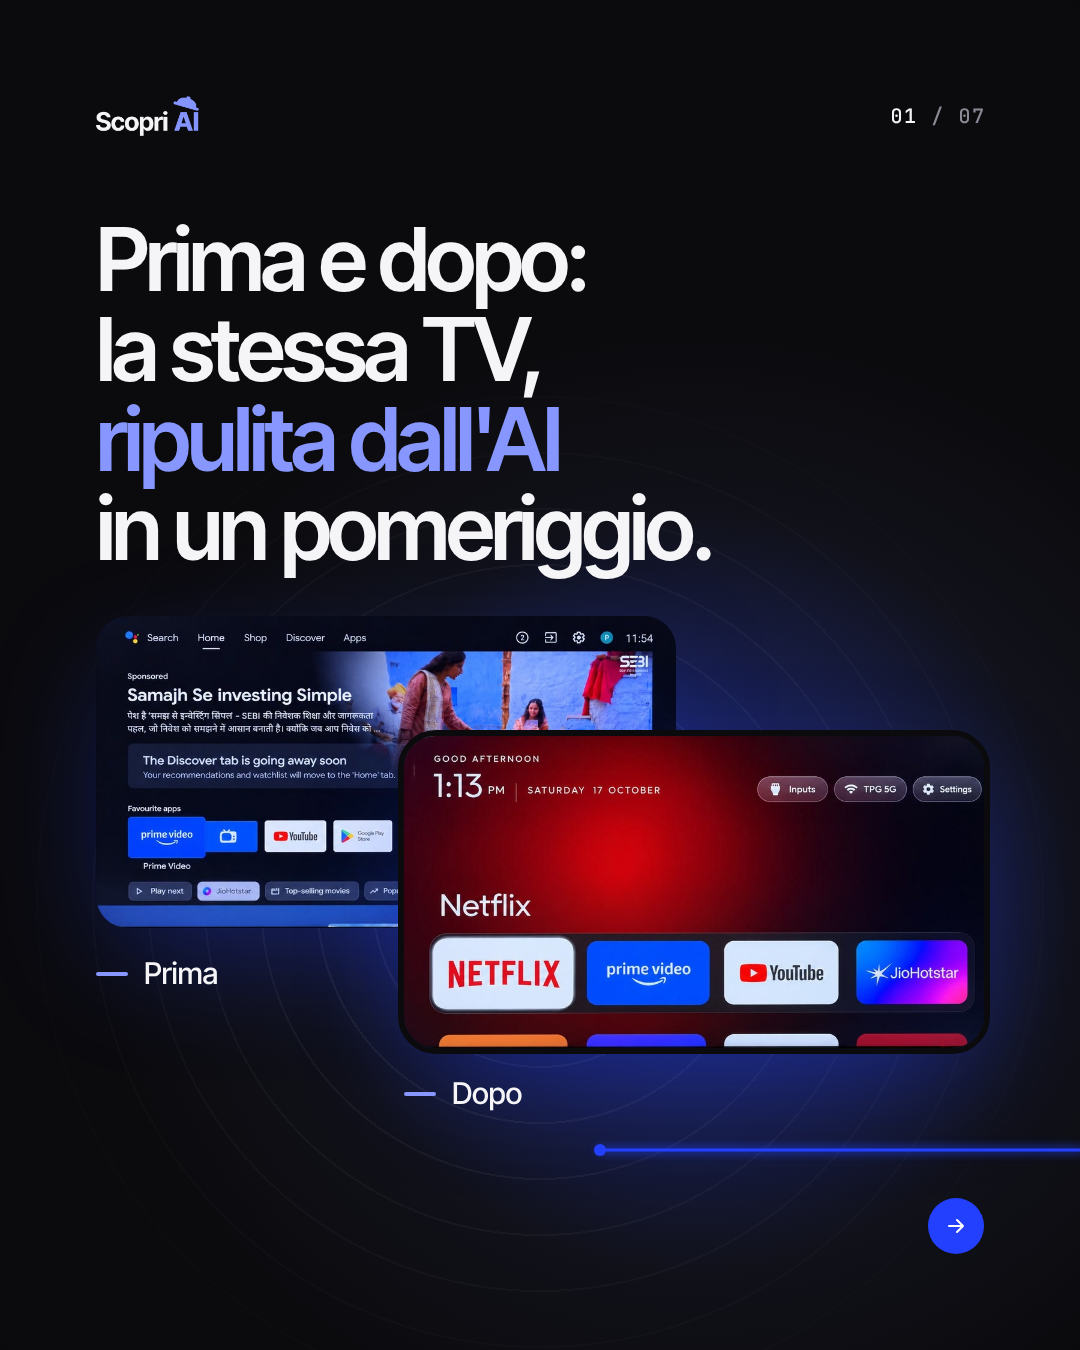
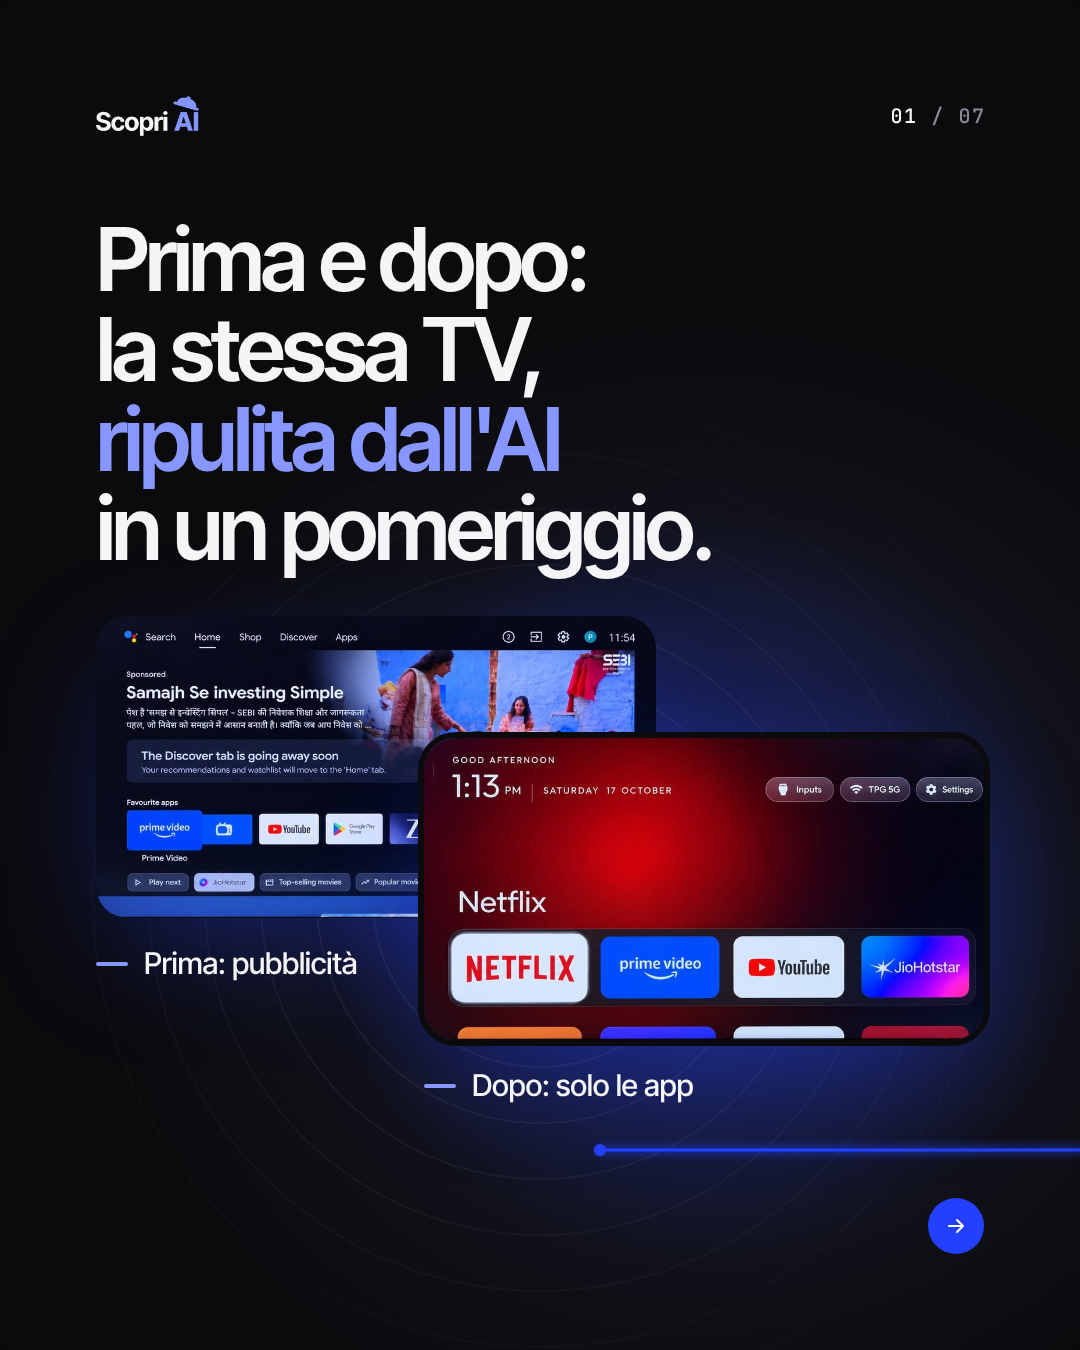
Bozza 20/10 smart TV: didascalie Prima: … / Dopo: … ripristinate
Claude-Session: https://claude.ai/code/session_01XwbamHMD22pS1qReAsKQQF

Changed region(s): [[0.0917, 0.4356, 0.9167, 0.84], [0.7028, 0.56, 0.8861, 0.5911]]

diff --git a/carousels/2026-10-20-news-smart-tv-ai/copertine.html b/carousels/2026-10-20-news-smart-tv-ai/copertine.html
@@ -52,10 +52,10 @@
   <div class="layer rings" style="--rx:540px;--ry:900px"></div>
   <div class="glow" data-for="#c-dopo"></div>
   <h2 class="txt display qa-text" style="left:96px;top:216px;width:888px;font-size:88px;line-height:1.02" data-lines="4">Prima e dopo:<br>la stessa TV,<br><span class="em">ripulita dall'AI</span><br>in un pomeriggio.</h2>
-  <div class="img-box" id="c-prima" style="left:96px;top:616px;width:580px;height:312px;background-image:url(media/gathin-prima.jpg);background-position:0 30%"></div>
-  <div class="img-box front" id="c-dopo" style="left:404px;top:736px;width:580px;height:312px;background-image:url(media/gathin-dopo.jpg);background-position:30% 50%"></div>
-  <p class="cap qa-text" data-under="#c-prima">Prima</p>
-  <p class="cap qa-text" data-under="#c-dopo">Dopo</p>
+  <div class="img-box" id="c-prima" style="left:96px;top:616px;width:560px;height:302px;background-image:url(media/gathin-prima.jpg);background-position:0 30%"></div>
+  <div class="img-box front" id="c-dopo" style="left:424px;top:738px;width:560px;height:302px;background-image:url(media/gathin-dopo.jpg);background-position:30% 50%"></div>
+  <p class="cap qa-text" data-under="#c-prima">Prima: pubblicità</p>
+  <p class="cap qa-text" data-under="#c-dopo">Dopo: solo le app</p>
 </section></div>
 <div class="slot"><section class="slide mode-dark">
   <div class="layer bg"></div>
@@ -63,37 +63,37 @@
   <div class="glow" data-for="#c-video"></div>
   <h2 class="txt display qa-text" style="left:96px;top:216px;width:888px;font-size:88px;line-height:1.02" data-lines="4">Prima e dopo:<br>la stessa TV,<br><span class="em">ripulita dall'AI</span><br>in un pomeriggio.</h2>
   <div class="img-box" id="c-video" style="left:96px;top:636px;width:888px;height:400px;background-image:url(media/doyle-frame-1s.jpg);background-position:50% 50%"></div>
-  <p class="cap qa-text" data-under="#c-video">Dopo</p>
+  <p class="cap qa-text" data-under="#c-video">Dopo: il menu nuovo, nel video.</p>
 </section></div>
 <div class="slot"><section class="slide mode-dark">
   <div class="layer bg"></div>
   <div class="layer rings" style="--rx:540px;--ry:900px"></div>
   <div class="glow" data-for="#c-dopo"></div>
   <h2 class="txt display qa-text" style="left:96px;top:216px;width:888px;font-size:88px;line-height:1.02" data-lines="4">Prima e dopo:<br>la stessa TV,<br><span class="em">ripulita dall'AI</span><br>in un pomeriggio.</h2>
-  <div class="img-box" id="c-prima" style="left:96px;top:616px;width:580px;height:312px;background-image:url(media/mihir-prima.jpg);background-position:0 30%"></div>
-  <div class="img-box front" id="c-dopo" style="left:404px;top:736px;width:580px;height:312px;background-image:url(media/mihir-dopo.jpg);background-position:0 50%"></div>
-  <p class="cap qa-text" data-under="#c-prima">Prima</p>
-  <p class="cap qa-text" data-under="#c-dopo">Dopo</p>
+  <div class="img-box" id="c-prima" style="left:96px;top:616px;width:560px;height:302px;background-image:url(media/mihir-prima.jpg);background-position:0 30%"></div>
+  <div class="img-box front" id="c-dopo" style="left:424px;top:738px;width:560px;height:302px;background-image:url(media/mihir-dopo.jpg);background-position:0 50%"></div>
+  <p class="cap qa-text" data-under="#c-prima">Prima: lentissima</p>
+  <p class="cap qa-text" data-under="#c-dopo">Dopo: meno della metà</p>
 </section></div>
 <div class="slot"><section class="slide mode-dark">
   <div class="layer bg"></div>
   <div class="layer rings" style="--rx:540px;--ry:900px"></div>
   <div class="glow" data-for="#c-dopo"></div>
   <h2 class="txt display qa-text" style="left:96px;top:216px;width:888px;font-size:88px;line-height:1.02" data-lines="4">La TV dei suoi<br>mostrava pubblicità<br>prima di Netflix.<br><span class="em">Non più.</span></h2>
-  <div class="img-box" id="c-prima" style="left:96px;top:616px;width:580px;height:312px;background-image:url(media/gathin-prima.jpg);background-position:0 30%"></div>
-  <div class="img-box front" id="c-dopo" style="left:404px;top:736px;width:580px;height:312px;background-image:url(media/gathin-dopo.jpg);background-position:30% 50%"></div>
-  <p class="cap qa-text" data-under="#c-prima">Prima</p>
-  <p class="cap qa-text" data-under="#c-dopo">Dopo</p>
+  <div class="img-box" id="c-prima" style="left:96px;top:616px;width:560px;height:302px;background-image:url(media/gathin-prima.jpg);background-position:0 30%"></div>
+  <div class="img-box front" id="c-dopo" style="left:424px;top:738px;width:560px;height:302px;background-image:url(media/gathin-dopo.jpg);background-position:30% 50%"></div>
+  <p class="cap qa-text" data-under="#c-prima">Prima: pubblicità</p>
+  <p class="cap qa-text" data-under="#c-dopo">Dopo: solo le app</p>
 </section></div>
 <div class="slot"><section class="slide mode-dark">
   <div class="layer bg"></div>
   <div class="layer rings" style="--rx:540px;--ry:900px"></div>
   <div class="glow" data-for="#c-dopo"></div>
   <h2 class="txt display qa-text" style="left:96px;top:216px;width:888px;font-size:88px;line-height:1.02" data-lines="4">Pubblicità<br>sulla tua smart TV?<br>C'è chi la toglie<br><span class="em">con l'AI.</span></h2>
-  <div class="img-box" id="c-prima" style="left:96px;top:616px;width:580px;height:312px;background-image:url(media/gathin-prima.jpg);background-position:0 30%"></div>
-  <div class="img-box front" id="c-dopo" style="left:404px;top:736px;width:580px;height:312px;background-image:url(media/gathin-dopo.jpg);background-position:30% 50%"></div>
-  <p class="cap qa-text" data-under="#c-prima">Prima</p>
-  <p class="cap qa-text" data-under="#c-dopo">Dopo</p>
+  <div class="img-box" id="c-prima" style="left:96px;top:616px;width:560px;height:302px;background-image:url(media/gathin-prima.jpg);background-position:0 30%"></div>
+  <div class="img-box front" id="c-dopo" style="left:424px;top:738px;width:560px;height:302px;background-image:url(media/gathin-dopo.jpg);background-position:30% 50%"></div>
+  <p class="cap qa-text" data-under="#c-prima">Prima: pubblicità</p>
+  <p class="cap qa-text" data-under="#c-dopo">Dopo: solo le app</p>
 </section></div>
 <div class="slot"><section class="slide mode-dark">
   <div class="layer bg"></div>

diff --git a/carousels/2026-10-20-news-smart-tv-ai/index.html b/carousels/2026-10-20-news-smart-tv-ai/index.html
@@ -54,10 +54,10 @@
   <div class="layer rings" style="--rx:540px;--ry:900px"></div>
   <div class="glow" data-for="#c-dopo"></div>
   <h2 class="txt display qa-text" style="left:96px;top:216px;width:888px;font-size:88px;line-height:1.02" data-lines="4">Prima e dopo:<br>la stessa TV,<br><span class="em">ripulita dall'AI</span><br>in un pomeriggio.</h2>
-  <div class="img-box" id="c-prima" style="left:96px;top:616px;width:580px;height:312px;background-image:url(media/gathin-prima.jpg);background-position:0 30%"></div>
-  <div class="img-box front" id="c-dopo" style="left:404px;top:736px;width:580px;height:312px;background-image:url(media/gathin-dopo.jpg);background-position:30% 50%"></div>
-  <p class="cap qa-text" data-under="#c-prima">Prima</p>
-  <p class="cap qa-text" data-under="#c-dopo">Dopo</p>
+  <div class="img-box" id="c-prima" style="left:96px;top:616px;width:560px;height:302px;background-image:url(media/gathin-prima.jpg);background-position:0 30%"></div>
+  <div class="img-box front" id="c-dopo" style="left:424px;top:738px;width:560px;height:302px;background-image:url(media/gathin-dopo.jpg);background-position:30% 50%"></div>
+  <p class="cap qa-text" data-under="#c-prima">Prima: pubblicità</p>
+  <p class="cap qa-text" data-under="#c-dopo">Dopo: solo le app</p>
 </section></div>
 
 <!-- ============ 02 · IL DOPO, SUBITO · LIGHT · Gathin's "after" ============ -->
@@ -69,7 +69,7 @@
     <p class="body qa-text" style="width:820px">Un ragazzo ha dato a Claude Code, un'AI che lavora sul computer, il modello della TV dei suoi genitori. L'AI l'ha trovata in Wi-Fi e ha fatto il resto.</p>
   </div>
   <div class="img-box" id="i2" style="left:96px;top:624px;width:888px;height:412px;background-image:url(media/gathin-dopo.jpg);background-position:30% 0"></div>
-  <p class="cap qa-text" data-under="#i2">Dopo</p>
+  
 </section></div>
 
 <!-- ============ 03 · IL PRIMA · ACCENT · Gathin's "before": the sponsored ad ============ -->
@@ -81,7 +81,7 @@
     <p class="body qa-text" style="width:820px">Prima, appena accesa, la TV mostrava un annuncio. Sotto, file di consigli e app mai usate. Ora restano solo le app dei genitori.</p>
   </div>
   <div class="img-box" id="i3" style="left:96px;top:624px;width:888px;height:412px;background-image:url(media/gathin-prima.jpg);background-position:0 0"></div>
-  <p class="cap qa-text" data-under="#i3">Prima</p>
+  <p class="cap qa-text" data-under="#i3">Prima: l'annuncio. Ora è sparito.</p>
 </section></div>
 
 <!-- ============ 04 · UN'ALTRA TV · LIGHT · Mihir Gupta's before/after ============ -->
@@ -95,8 +95,8 @@
   <!-- whole screens, original ratio 950:540 (owner: not cropped) -->
   <div class="img-box" id="i4a" style="left:96px;top:700px;width:436px;height:248px;border-radius:24px;background-image:url(media/mihir-prima.jpg);background-size:100% 100%"></div>
   <div class="img-box" id="i4b" style="left:548px;top:700px;width:436px;height:248px;border-radius:24px;background-image:url(media/mihir-dopo.jpg);background-size:100% 100%"></div>
-  <p class="cap qa-text" data-under="#i4a">Prima</p>
-  <p class="cap qa-text" data-under="#i4b">Dopo</p>
+  <p class="cap qa-text" data-under="#i4a">Prima: lentissima</p>
+  <p class="cap qa-text" data-under="#i4b">Dopo: meno della metà</p>
 </section></div>
 
 <!-- ============ 05 · VELOCE · DARK · Ryan Doyle's video (vertical, colour) ============ -->

diff --git a/carousels/2026-10-20-news-smart-tv-ai/copy.md b/carousels/2026-10-20-news-smart-tv-ai/copy.md
@@ -2,32 +2,31 @@ _Copy in italiano · formato: statico (slide 5 con video vero → MP4) · 7 slid
 
 **In una frase:** per chi ha una smart TV piena di pubblicità: mostra il prima e il dopo di TV vere ripulite con un'AI, avvisa che è un fai-da-te rischioso; invito: mandarlo a chi si lamenta della pubblicità sulla TV. · **Struttura:** Prima → Dopo → Ponte (scelta del proprietario), con la scoperta più forte (il dopo) subito in slide 2.
 
-**Immagini:** tutte vere, prese dai post originali degli autori su X (non dalla ripubblicazione di Evolving AI): schermo della TV ritagliato, **a colori** (correzione del proprietario, 20/10: niente monocromo, video compreso), senza le scritte inglesi; sotto le immagini solo le didascalie **«Prima» / «Dopo»** (trattino blu), niente commenti e niente etichette sopra (proprietario, 20/10). Autori solo in "Fonti".
+**Immagini:** tutte vere, prese dai post originali degli autori su X (non dalla ripubblicazione di Evolving AI): schermo della TV ritagliato, **a colori** (correzione del proprietario, 20/10: niente monocromo, video compreso), senza le scritte inglesi; sotto le immagini solo didascalie di confronto **«Prima: …» / «Dopo: …»** (trattino blu), nient'altro e niente etichette sopra (proprietario, 20/10). Autori solo in "Fonti".
 
 ### 01 — Copertina (DARK)
 - **Titolo:** Prima e dopo: / la stessa TV, / *ripulita dall'AI* / in un pomeriggio. (accento: «ripulita dall'AI»)
 - Nessuna etichetta di rubrica in copertina.
 - **Visual:** foto vere della TV dei genitori di Gathin, sovrapposte: il prima (annuncio sponsorizzato) dietro in alto a sinistra, il dopo (menu pulito) davanti in basso a destra.
-- **Didascalie sotto:** «Prima» · «Dopo»
+- **Didascalie sotto:** «Prima: pubblicità» · «Dopo: solo le app»
 - **Alternative rese:** vedi in fondo, "Copertine".
 
 ### 02 — Il dopo (LIGHT)
 - **Pill:** Il dopo · **Titolo:** Ha spento 25 app / *e rifatto il menu.*
 - **Testo:** Un ragazzo ha dato a Claude Code, un'AI che lavora sul computer, il modello della TV dei suoi genitori. L'AI l'ha trovata in Wi-Fi e ha fatto il resto.
-- **Didascalia sotto:** Dopo
 - **Visual:** schermo "dopo" di Gathin, grande.
 
 ### 03 — Il prima (ACCENT)
 - **Pill:** Il prima · **Titolo:** Ha tolto la pubblicità / *prima di Netflix.* (barra bianca)
 - **Testo:** Prima, appena accesa, la TV mostrava un annuncio. Sotto, file di consigli e app mai usate. Ora restano solo le app dei genitori.
-- **Didascalia sotto:** Prima
+- **Didascalia sotto:** Prima: l'annuncio. Ora è sparito.
 - **Visual:** schermo "prima" di Gathin, grande (si legge "Sponsored").
 
 ### 04 — Un'altra TV (LIGHT)
 - **Pill:** Un'altra TV · **Titolo:** Ha alleggerito il menu: / *da 192 a 83 MB.*
 - **Testo:** Un altro utente ci ha provato sulla sua Google TV, diventata lentissima: 25 app spente e una schermata nuova con sfondi che cambiano.
 - **Visual:** prima/dopo di Mihir Gupta, due schermi affiancati, interi (non ritagliati).
-- **Didascalie sotto:** «Prima» · «Dopo»
+- **Didascalie sotto:** «Prima: lentissima» · «Dopo: meno della metà»
 
 ### 05 — Più veloce (DARK) · VIDEO
 - **Pill:** Più veloce · **Titolo:** Ha reso / la TV / *velocissima.*
@@ -75,7 +74,7 @@ _Copy in italiano · formato: statico (slide 5 con video vero → MP4) · 7 slid
 Controllo automatico (bozza): ✅ CAPTION PRONTA · carosello · notizia — 1527/2200 caratteri · 5 hashtag · invito: 📩 Mandalo a … · domanda: sì · fonti: sì · seguici: sì
 
 ### Copertine (in `exports/`, tutte a colori; confronto in `copertine-confronto.jpg`)
-- Tutte senza etichetta di rubrica, con «Prima» / «Dopo» sotto le immagini; a, d, e, f con gli schermi sovrapposti.
+- Tutte senza etichetta di rubrica, con le didascalie di confronto sotto le immagini; a, d, e, f con gli schermi sovrapposti (d: «Prima: lentissima» / «Dopo: meno della metà»; c: «Dopo: il menu nuovo, nel video.»).
 - **copertina-a** = slide 1: titolo c, prima/dopo di Gathin (consigliata).
 - **copertina-c**: titolo c, fotogramma del **video di Ryan Doyle** (si può fare MP4 della copertina con la sua clip in finale).
 - **copertina-d**: titolo c, prima/dopo di **Mihir Gupta**.

diff --git a/.claude/skills/scopri-carousel/references/brand-scopri-ai.md b/.claude/skills/scopri-carousel/references/brand-scopri-ai.md
@@ -67,7 +67,7 @@ These differ from `design-system.md` §3. Each one is the user's correction from
 - **No handle anywhere** (20 Oct 2026): the frame no longer prints `@scopri__ai` bottom-left. The footer keeps only the swipe cue on the right.
 - **No rubric label on the cover** (20 Oct 2026): no pill ("News lampo", "Prompt"…) on slide 1, ever. The headline starts at y ≈ 216.
 - **Eyebrow pills on content slides** are plain mono labels with a short accent dash: no rounded box, no coloured dot (the dot pills clashed with the new captions).
-- **No stickers or labels laid over images or cards** (20 Oct 2026). The only text tied to an image is a plain **"Prima" / "Dopo"** caption under it, in a before/after comparison (`.cap`, see §6).
+- **No stickers or labels laid over images or cards** (20 Oct 2026). The only text tied to an image is a comparison caption under it, **«Prima: …» / «Dopo: …»** (`.cap`, see §6).
 - Everything else in the frame stays as the design system describes: positions, sizes, the swipe cue filled on the cover.
 
 ## 5. Closing slide (CTA)
@@ -90,7 +90,7 @@ Redesigned on 20 Oct 2026 (owner: "il pulsante MANDA non si capisce").
 - **Real photos and videos are always in full colour** (owner, 20 Oct 2026): `data-tone="color"` on every `video-box`, no black-and-white or blue duotone on real footage, posters and covers included. This overrides the "no full-color photography" rule of `design-system.md`.
 - Prompt slides get **no** imagery. The prompt card is the hero, and anything else costs legibility.
 - **Real photos and videos are in colour** (owner, 20 Oct 2026): `.img-box` with the original image, `.video-box` with `data-tone="color"`. The mono tone is no longer the default for news.
-- **Captions: only "Prima" and "Dopo"** (owner, 20 Oct 2026, second review). No comment under images (no "Vola.", "Rischio vero.", "Sembra una Apple TV."), no stickers, no labels over images. When a slide shows a before or an after (or both), each image gets a plain `<p class="cap" data-under="#img">Prima</p>` / `Dopo` (just the word): Inter Tight 500 30 px with a 32 px accent dash, placed by the engine 28 px under the image, left-aligned; side-by-side captions line up at the same height. Leave room: image bottom ≤ ~1060.
+- **Captions: only comparison captions, «Prima: …» / «Dopo: …»** (owner, 20 Oct 2026). The word Prima or Dopo, a colon, then 1–3 words saying what changes («Prima: pubblicità», «Dopo: solo le app», «Prima: lentissima», «Dopo: meno della metà»). Nothing else under images (no "Vola.", "Rischio vero.", "Sembra una Apple TV."), no stickers, no labels over images, and no caption on an image that isn't part of a before/after. Each image of the comparison gets its own `<p class="cap" data-under="#img">Prima: …</p>`: Inter Tight 500 30 px with a 32 px accent dash, placed by the engine 28 px under the image, left-aligned; side-by-side captions line up at the same height. Leave room: image bottom ≤ ~1060.
 - **Before/after on the cover**: the two screens overlap, "Prima" behind top-left, "Dopo" in front bottom-right (`.img-box.front`, outlined), slightly offset; "Prima" sits under the visible bottom-left edge of the back screen, "Dopo" under the front one.
 - **Before/after pairs inside the carousel**: show the whole screenshots, at their original ratio (no crop), side by side.
 

diff --git a/.claude/skills/scopri-carousel/references/lessons-learned.md b/.claude/skills/scopri-carousel/references/lessons-learned.md
@@ -43,7 +43,7 @@ This file records what happened between the original brief and the approved caro
 | The closing pill "MANDA" (small, outlined, uppercase mono) wasn't understood. | Filled blue button with icon and words ("Mandalo a un amico"), then a smaller **🔔 Seguici per non perdere le prossime notizie** line with the logo's lid as the bell. Hierarchy: headline → button → follow line. Text per type from `CAROUSEL.tipo`. |
 | Round pills with a coloured dot over images and cards ("Prima", "Dopo", "Sparita", "Vola", "Fai-da-te"…) looked cheap. | **Captions under the image** (`.cap[data-under]`), same gap and style on every slide; centred under both images when it applies to both. Stickers are no longer used on Scopri AI slides. |
 | Caption: only the main invite. | Every caption also has a `🔔 Seguici per non perdere …` line before Fonti/hashtags (not in *serie*). `caption_check.py` warns when it is missing and doesn't count it as a second invite. |
-| Second review: the comment captions under images ("Sembra una Apple TV.", "Vola.", "Rischio vero.", "Prima: l'annuncio. Ora è sparito.") went too. | **Only "Prima" / "Dopo"** as captions, just the word, under the image, when there is a comparison. No 2–3-word comment on the slides. Anything that must be said (e.g. "non è un prodotto ufficiale") goes in the body or inside a card. |
+| Second review: the comment captions under images ("Sembra una Apple TV.", "Vola.", "Rischio vero.", "Prima: l'annuncio. Ora è sparito.") went too. | Then the owner wanted the comparison captions back with their text. Final rule: **only comparison captions, «Prima: …» / «Dopo: …»** with 1–3 words on what changes ("Prima: pubblicità" / "Dopo: solo le app"), under the images of a before/after. No other caption or comment on the slides, and none on an image outside a comparison. Anything that must be said (e.g. "non è un prodotto ufficiale") goes in the body or inside a card. |
 | The cover with two side-by-side cropped screens was less striking than the earlier overlap. | Cover before/after = **overlapping collage**: before behind top-left, after in front bottom-right (`.img-box.front`), captions under the visible bottom-left edge of each. |
 | Mihir Gupta's before/after were cropped to fill the boxes. | Before/after screenshots inside the carousel are shown **whole**, at their original ratio (box sized to the image), side by side. |
 | `python` in `/usr/local/bin` (cloud) has a broken Pillow; `npm run previews` / `npm run media` failed. | Run them with `PATH=/usr/bin:$PATH`. |

diff --git a/.claude/skills/scopri-carousel/SKILL.md b/.claude/skills/scopri-carousel/SKILL.md
@@ -135,7 +135,7 @@ Read `references/build-guide.md`. Then:
 
    Check every asset on all three backgrounds with `scripts/asset-check.py` before placing it.
 
-4. **Write the slides** in `index.html` from the layout library. No pill on the cover, no handle (the engine no longer prints it), no stickers or labels over images or cards, no comment captions: the only caption is a plain "Prima" / "Dopo" under the image in a before/after, `<p class="cap" data-under="#id">Prima</p>` (20 Oct 2026). Set `tipo` in `CAROUSEL` (the scaffold does it from the slug). Replace all sample copy, mark text with `qa-text`, and pin headline line counts with `data-lines`. Set `CAROUSEL.seams/routes` for the thread. Keep slide-specific CSS in the page's `<style>`, not in `engine/`.
+4. **Write the slides** in `index.html` from the layout library. No pill on the cover, no handle (the engine no longer prints it), no stickers or labels over images or cards, no comment captions: the only captions are comparison ones under the images of a before/after, «Prima: …» / «Dopo: …» with 1–3 words on what changes, `<p class="cap" data-under="#id">Prima: pubblicità</p>` (20 Oct 2026). Set `tipo` in `CAROUSEL` (the scaffold does it from the slug). Replace all sample copy, mark text with `qa-text`, and pin headline line counts with `data-lines`. Set `CAROUSEL.seams/routes` for the thread. Keep slide-specific CSS in the page's `<style>`, not in `engine/`.
 
 5. **Export and check**, from `carousels/<slug>/`:
 

diff --git a/.claude/skills/scopri-carousel/references/build-guide.md b/.claude/skills/scopri-carousel/references/build-guide.md
@@ -82,7 +82,7 @@ Write this table into your notes first. It prevents most rework.
 | `.card` (+ `.abs`) | dark UI card, every mode | padding 32, radius 28; `.ui` / `.ui-meta` = UI text (non-essential only) |
 | `.sticker` | rotated pill on a card corner | **not used on Scopri AI slides since 20 Oct 2026**: use `.cap` under the card |
 | `.img-box` | real photo/screenshot box (engine) | `background-image:url(media/x.jpg)`, colour; radius 32 |
-| `.cap[data-under]` | **only "Prima" / "Dopo"** under an image in a before/after (no comments) | engine places it 28 px below, left-aligned, text width. 30 px, accent dash. Keep the image bottom ≤ ~1060 |
+| `.cap[data-under]` | **only comparison captions «Prima: …» / «Dopo: …»** (1–3 words on what changes) under the images of a before/after; nothing else | engine places it 28 px below, left-aligned, text width. 30 px, accent dash. Keep the image bottom ≤ ~1060 |
 | `.img-box.front` | the "after" screen in front of the "before" one (cover collage) | outlined in the background colour, z above the back screen |
 | `.pcard` + `.ph` | prompt composer card + `[placeholder]` | see §6 |
 | `.rows > .row > .idx/.t/.m` | T7 hairline rows, 96 px | starts around y 600 |
